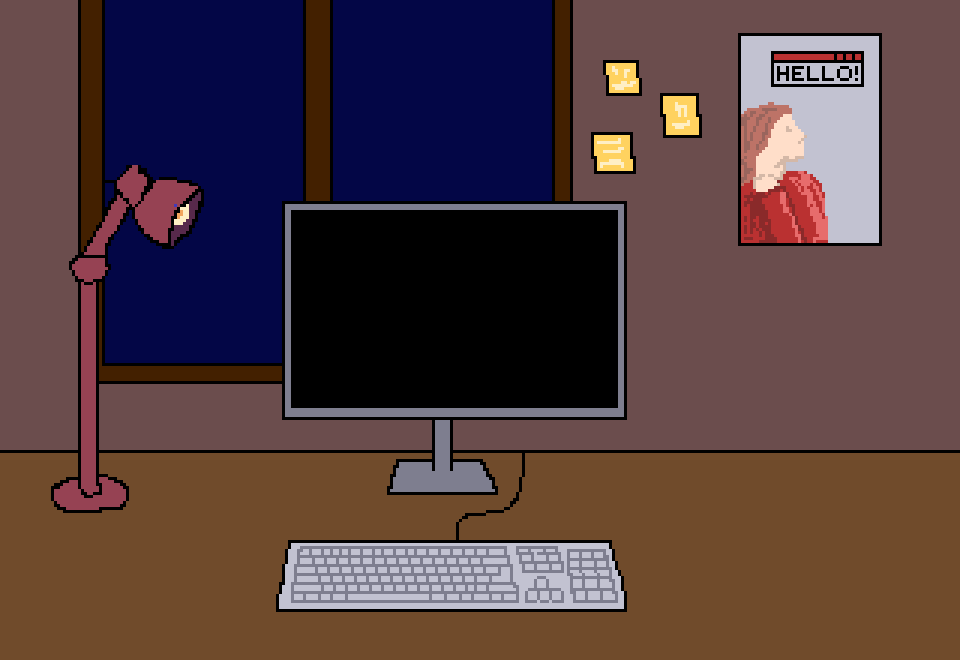
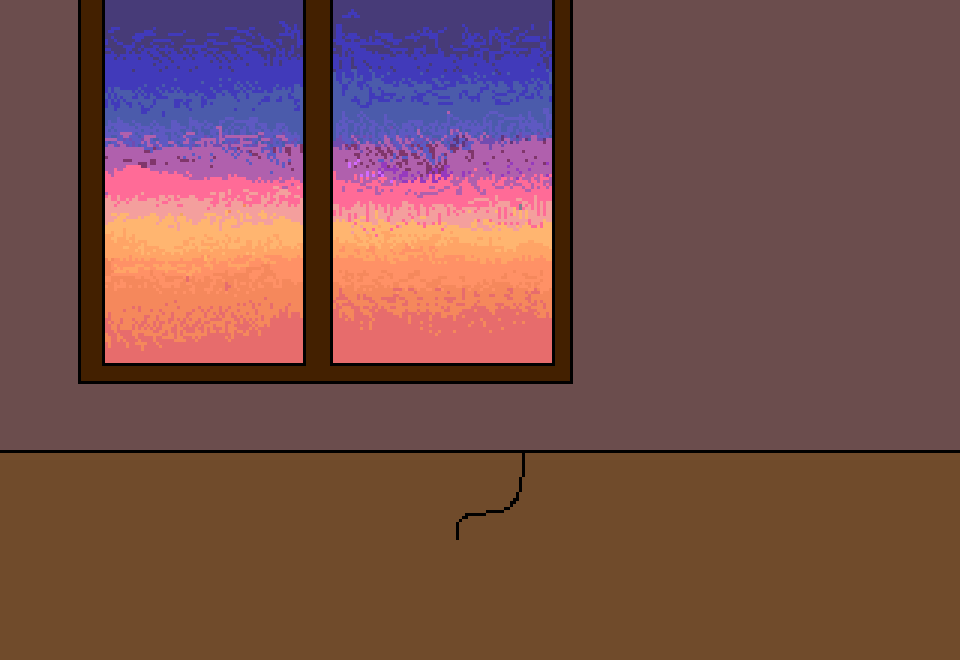
add monitor animation

diff --git a/src/utils/animation.ts b/src/utils/animation.ts
@@ -18,3 +18,31 @@ export const handleClick = (frames: string[], setFrame: (arg0: number) => void, 
         setFrame(0);
     }, animationSteps * delayMs);
 }
+
+import { useRef, useState } from 'react';
+
+export const useToggleAnimation = (frames: string[], delayMs: number = 200) => {
+    const [frameIndex, setFrameIndex] = useState<number | null>(null);
+    const intervalRef = useRef<ReturnType<typeof setInterval> | null>(null);
+
+    const toggle = () => {
+        // Если анимация уже идет — останавливаем
+        if (intervalRef.current !== null) {
+            clearInterval(intervalRef.current);
+            intervalRef.current = null;
+            setFrameIndex(null);
+            return;
+        }
+
+        // Запускаем анимацию
+        let currentFrame = 0;
+        setFrameIndex(0);
+
+        intervalRef.current = setInterval(() => {
+            currentFrame = (currentFrame + 1) % frames.length;
+            setFrameIndex(currentFrame);
+        }, delayMs);
+    };
+
+    return { frameIndex, toggle };
+};

diff --git a/src/monitor/Monitor.tsx b/src/monitor/Monitor.tsx
@@ -1,0 +1,26 @@
+// Monitor.tsx
+import MonitorImage from '../assets/monitor/base_monitor.png';
+import { useToggleAnimation } from '../utils/animation.ts';
+import styles from './Monitor.module.css'
+// Автоматически импортирует все картинки кадров из папки в массив
+const animationFrames = Object.values(
+    import.meta.glob<string>('../assets/monitor/monitor*.png', {
+        eager: true,
+        import: 'default'
+    })
+);
+
+export const Monitor = () => {
+    const { frameIndex, toggle } = useToggleAnimation(animationFrames, 150);
+
+    const currentImage = frameIndex === null ? MonitorImage : animationFrames[frameIndex];
+
+    return (
+        <img
+            src={currentImage}
+            className={styles.monitor}
+            alt="Monitor"
+            onClick={toggle}
+        />
+    );
+};

diff --git a/src/App.tsx b/src/App.tsx
@@ -3,6 +3,8 @@ import RoomImage from './assets/room_base.png'
 import {Cup} from "./cup/Cup.tsx";
 import {Keyboard} from "./keyboard/Keyboard.tsx";
 import {Window} from "./window/Window.tsx";
+import {Cat} from "./cat/Cat.tsx";
+import {Monitor} from "./monitor/Monitor.tsx";
 
 function App() {
 
@@ -10,8 +12,10 @@ function App() {
       <div className="room">
         <img src={RoomImage} alt="Room" className="roomImage" />
           <Window />
-          <Keyboard/>
-          <Cup/>
+          <Keyboard />
+          <Cup />
+          <Cat />
+          <Monitor />
       </div>
   )
 }

diff --git a/src/cat/Cat.tsx b/src/cat/Cat.tsx
@@ -1,0 +1,19 @@
+import styles from './Cat.module.css'
+import {useState} from "react";
+import CatImage1 from '../assets/cat/cat.png'
+import {changeClick} from "../utils/change.ts";
+
+export const Cat = () => {
+    const catFrames = [CatImage1]
+
+    const [cat, setCat] = useState(0);
+
+    return (
+        <img
+            src={catFrames[cat]}
+            alt="WindowImage"
+            className={styles.cat}
+            onClick={() => changeClick(catFrames, setCat)}
+        />
+    );
+};

diff --git a/src/monitor/Monitor.module.css b/src/monitor/Monitor.module.css
@@ -1,0 +1,14 @@
+.monitor {
+    object-fit: contain;
+    image-rendering: pixelated;
+    -webkit-user-drag: none;
+    background: transparent;
+    cursor: pointer;
+    position: absolute;
+    border: none;
+    width: 600px;
+    height: 600px;
+    top: 250px;
+    left: 35%;
+    transform: translateX(-54%);
+}

diff --git a/src/cat/Cat.module.css b/src/cat/Cat.module.css
@@ -1,0 +1,14 @@
+.cat {
+    object-fit: contain;
+    image-rendering: pixelated;
+    -webkit-user-drag: none;
+    background: transparent;
+    cursor: pointer;
+    position: absolute;
+    border: none;
+    width: 300px;
+    height: 300px;
+    top: 600px;
+    left: 90%;
+    transform: translateX(-54%);
+}
